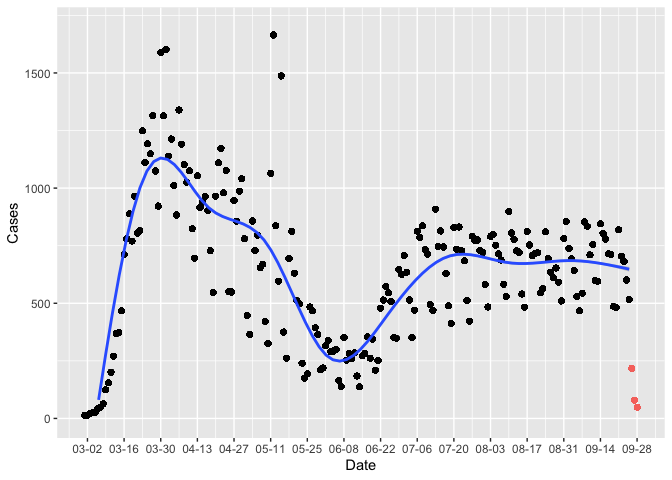
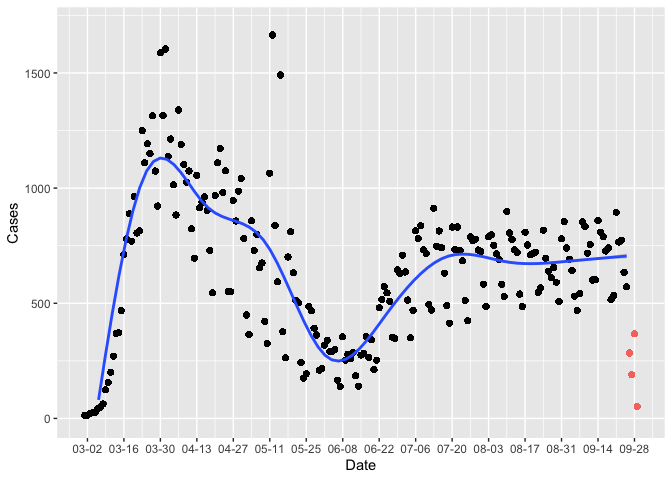
9/30/2020 udpate

diff --git a/MiCorona.md b/MiCorona.md
@@ -1,12 +1,12 @@
 Michigan COVID Data
 ================
 Adam DenHaan
-29 September, 2020
+30 September, 2020
 
 Read in data:
 
 ``` r
-download.file("https://www.michigan.gov/documents/coronavirus/Cases_by_County_and_Date_2020-09-28_703604_7.xlsx", destfile = "/tmp/file.xlsx")
+download.file("https://www.michigan.gov/documents/coronavirus/Cases_by_County_and_Date_2020-09-29_703757_7.xlsx", destfile = "/tmp/file.xlsx")
 
 mi_data = data.frame(readxl::read_excel("/tmp/file.xlsx"))
 
@@ -21,12 +21,12 @@ head(mi_data)
     ## 5 Alcona 2020-03-05   Confirmed     0      0                0                 0
     ## 6 Alcona 2020-03-06   Confirmed     0      0                0                 0
     ##               Updated
-    ## 1 2020-09-28 14:35:55
-    ## 2 2020-09-28 14:35:55
-    ## 3 2020-09-28 14:35:55
-    ## 4 2020-09-28 14:35:55
-    ## 5 2020-09-28 14:35:55
-    ## 6 2020-09-28 14:35:55
+    ## 1 2020-09-29 13:54:30
+    ## 2 2020-09-29 13:54:30
+    ## 3 2020-09-29 13:54:30
+    ## 4 2020-09-29 13:54:30
+    ## 5 2020-09-29 13:54:30
+    ## 6 2020-09-29 13:54:30
 
 Wrangle Data:
 
@@ -38,7 +38,7 @@ mi_cases_by_day = mi_data %>%
     Date = date(Date)
   ) 
 
-day_split = 3
+day_split = 4
 
 mi_cases_by_day_exclusive <- mi_cases_by_day %>%
   filter(                                  #most recent data is often inaccurate and revised
